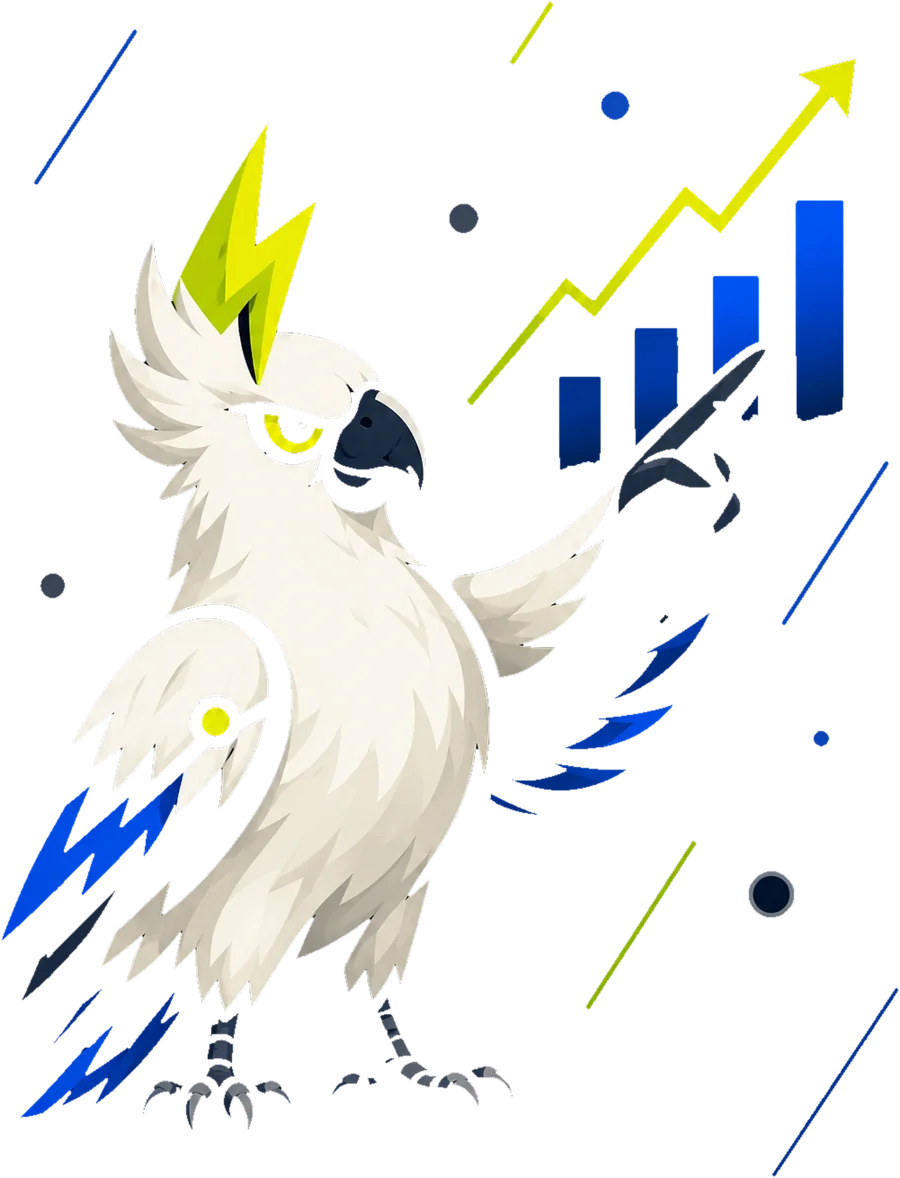
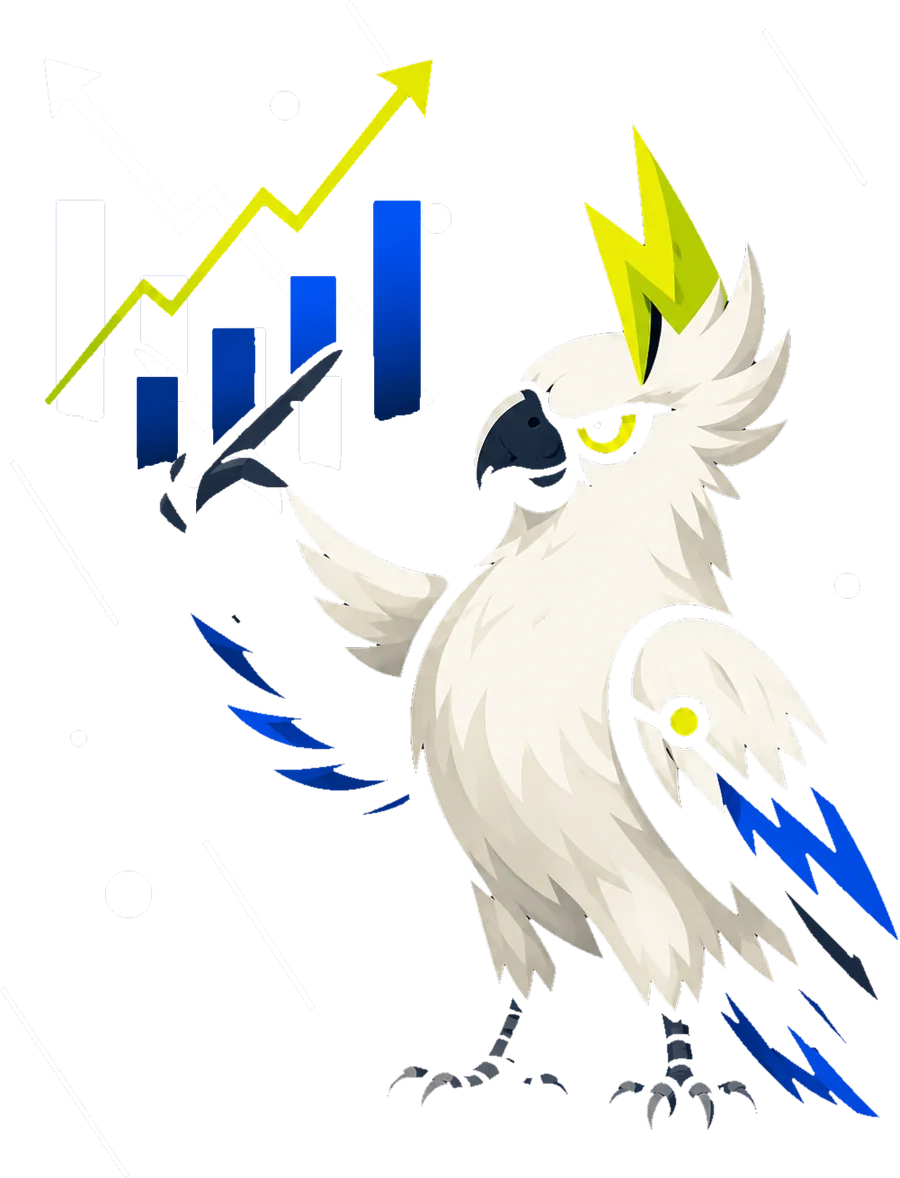
Deploy: sync site from workspace @ 3c6b36d

diff --git a/branding.html b/branding.html
@@ -85,31 +85,13 @@
     </defs>
     <rect width="1200" height="620" fill="url(#bg1)"/>
 
-    <!-- The magnet/horseshoe from the render lived here and was CUT at JP's
-         direction 2026-08-08 — it read as an ugly C behind the mascot at every
-         width tried. The streak field alone is the hero backdrop, same as the
-         homepage. Don't reinstate it without asking. -->
-    <g stroke-linecap="round">
-      <g stroke="#2365DE" stroke-width="3" opacity=".85">
-        <path d="M690 40 L640 150"/><path d="M900 20 L860 110"/><path d="M1080 90 L1035 185"/>
-        <path d="M760 200 L724 278"/><path d="M640 330 L610 396"/>
-        <path d="M1160 30 L1122 108"/><path d="M580 120 L548 190"/>
-        <path d="M1096 400 L1066 460"/><path d="M700 470 L674 526"/>
-      </g>
-      <g stroke="#CEFF00" stroke-width="3" opacity=".9">
-        <path d="M820 60 L784 138"/><path d="M1120 160 L1085 232"/><path d="M700 250 L672 312"/>
-        <path d="M600 40 L572 100"/><path d="M1180 340 L1152 396"/><path d="M846 470 L822 522"/>
-      </g>
-      <g fill="#2365DE" opacity=".8">
-        <circle cx="655" cy="255" r="7"/><circle cx="1128" cy="118" r="9"/><circle cx="905" cy="452" r="6"/>
-      </g>
-      <g fill="#CEFF00" opacity=".85">
-        <circle cx="742" cy="405" r="5"/><circle cx="1058" cy="330" r="4"/>
-      </g>
-      <g fill="#696D71" opacity=".55">
-        <circle cx="812" cy="176" r="9"/><circle cx="1150" cy="286" r="7"/>
-      </g>
-    </g>
+    <!-- Two things were CUT here at JP's direction 2026-08-08, in this order:
+         the horseshoe magnet from the original render (read as an ugly C behind
+         the mascot at every width tried), then the whole streak-and-dot field.
+         The artwork now carries its own bar chart, so the site's streaks were a
+         second scattered pattern on top of a busy illustration. Only the radial
+         glow above survives, which is a ground, not a pattern.
+         Don't reinstate either without asking. -->
   </svg>
 
   <div class="shell hero-grid">
@@ -139,9 +121,10 @@
       </div>
     </div>
 
-    <!-- no-flip: this artwork has a direction in it. Mirrored, the growth arrow
-         runs downhill and the bird points off the page. -->
-    <figure class="hero-mascot no-flip" data-rise>
+    <!-- Flipped 2026-08-08 at JP's direction so the bird faces the copy, like
+         the homepage mascot. The flip is baked into the asset, not applied in
+         CSS, because the bar chart had to stay unmirrored — see styles.css. -->
+    <figure class="hero-mascot art-wide" data-rise>
       <img src="assets/mascot-pointing.webp" width="900" height="1178" fetchpriority="high" decoding="async"
            alt="HagoDigital cockatoo mascot with a lightning-bolt crest, pointing up at a rising bar chart.">
       <!-- The pull-quote that sat here said "I make people remember your
@@ -228,46 +211,8 @@
     </div>
 
     <figure data-rise="right">
-      <!-- The render shows the identity applied across a brand guide, a laptop,
-           a phone and a cup. Drawn rather than photographed: there is no client
-           work to photograph yet, and a stock mockup would imply there is. -->
-      <svg class="mock" viewBox="0 0 560 400" role="img"
-           aria-label="A brand identity applied consistently across a printed brand guide, a laptop screen, a phone screen and a takeaway cup.">
-        <rect width="560" height="400" fill="none"/>
-        <!-- brand guide, standing -->
-        <g>
-          <rect x="18" y="96" width="128" height="196" rx="4" fill="#0A1526" stroke="#2365DE" stroke-width="2"/>
-          <rect x="18" y="96" width="13" height="196" rx="4" fill="#1B4EB0"/>
-          <path d="M74 150l-13 22h11l-6 20 17-25H72l7-17h-5Z" fill="#CEFF00"/>
-          <rect x="52" y="196" width="60" height="7" rx="3.5" fill="#F8F5E6" opacity=".85"/>
-          <rect x="52" y="210" width="42" height="7" rx="3.5" fill="#2365DE"/>
-          <rect x="52" y="262" width="52" height="5" rx="2.5" fill="#696D71"/>
-        </g>
-        <!-- laptop -->
-        <g>
-          <rect x="170" y="120" width="250" height="158" rx="6" fill="#0A1526" stroke="#2365DE" stroke-width="2"/>
-          <rect x="182" y="132" width="226" height="134" rx="3" fill="#000A18"/>
-          <path d="M300 168l-16 27h13l-7 24 21-31h-13l9-20h-7Z" fill="#CEFF00"/>
-          <rect x="252" y="222" width="96" height="9" rx="4.5" fill="#F8F5E6" opacity=".9"/>
-          <rect x="266" y="240" width="68" height="9" rx="4.5" fill="#2365DE"/>
-          <path d="M156 278h278l16 22H140l16-22Z" fill="#0A1526" stroke="#2365DE" stroke-width="2" stroke-linejoin="round"/>
-          <rect x="262" y="286" width="66" height="5" rx="2.5" fill="#696D71"/>
-        </g>
-        <!-- phone -->
-        <g>
-          <rect x="386" y="176" width="86" height="160" rx="12" fill="#0A1526" stroke="#2365DE" stroke-width="2"/>
-          <rect x="394" y="192" width="70" height="128" rx="6" fill="#000A18"/>
-          <path d="M429 214l-10 17h8l-4 15 13-19h-8l6-13h-5Z" fill="#CEFF00"/>
-          <rect x="408" y="264" width="42" height="7" rx="3.5" fill="#F8F5E6" opacity=".9"/>
-          <rect x="416" y="278" width="26" height="7" rx="3.5" fill="#2365DE"/>
-        </g>
-        <!-- cup -->
-        <g>
-          <path d="M492 214h54l-7 118a10 10 0 0 1-10 9h-20a10 10 0 0 1-10-9l-7-118Z" fill="#0A1526" stroke="#2365DE" stroke-width="2" stroke-linejoin="round"/>
-          <rect x="488" y="202" width="62" height="16" rx="4" fill="#1B4EB0"/>
-          <path d="M521 250l-8 14h7l-4 13 12-17h-7l5-10h-5Z" fill="#CEFF00"/>
-        </g>
-      </svg>
+      <img src="assets/brand-applied.webp" width="1200" height="700" loading="lazy" decoding="async"
+           alt="The HagoDigital identity applied across a coffee cup, a cap, a t-shirt, a laptop website and a phone screen.">
     </figure>
   </div>
 </section>

diff --git a/styles.css b/styles.css
@@ -208,9 +208,14 @@ h1{font-size:clamp(2.6rem,6.2vw,4.4rem);letter-spacing:-.04em;line-height:1.02;c
 .hero-mascot img{--flip:-1;width:min(430px,100%);transform:scaleX(var(--flip));}
 /* Wider artwork than the perched mascot — the bird is only ~55% of the frame,
    the chart takes the rest — so 430px renders the bird noticeably smaller than
-   it sits on the homepage. The width is matched to the BIRD, not the file. */
-.hero-mascot.no-flip img{--flip:1;width:min(580px,100%);}
-@media(max-width:900px){.hero-mascot.no-flip img{width:min(420px,88%);}}
+   it sits on the homepage. The width is matched to the BIRD, not the file.
+   --flip:1 because the mirroring is baked into the FILE, not done here. The bird
+   faces the copy but the bar chart does not mirror with it — flipping the whole
+   frame turned a rising chart into a falling one on a page selling growth. CSS
+   can only mirror all of it or none of it, so the composition was made in the
+   asset instead. Do not "simplify" this back to a CSS flip. */
+.hero-mascot.art-wide img{--flip:1;width:min(580px,100%);}
+@media(max-width:900px){.hero-mascot.art-wide img{width:min(420px,88%);}}
 @media(max-width:900px){
   .hero-grid{grid-template-columns:1fr;}
   .hero-copy{padding-bottom:0;order:1;}
